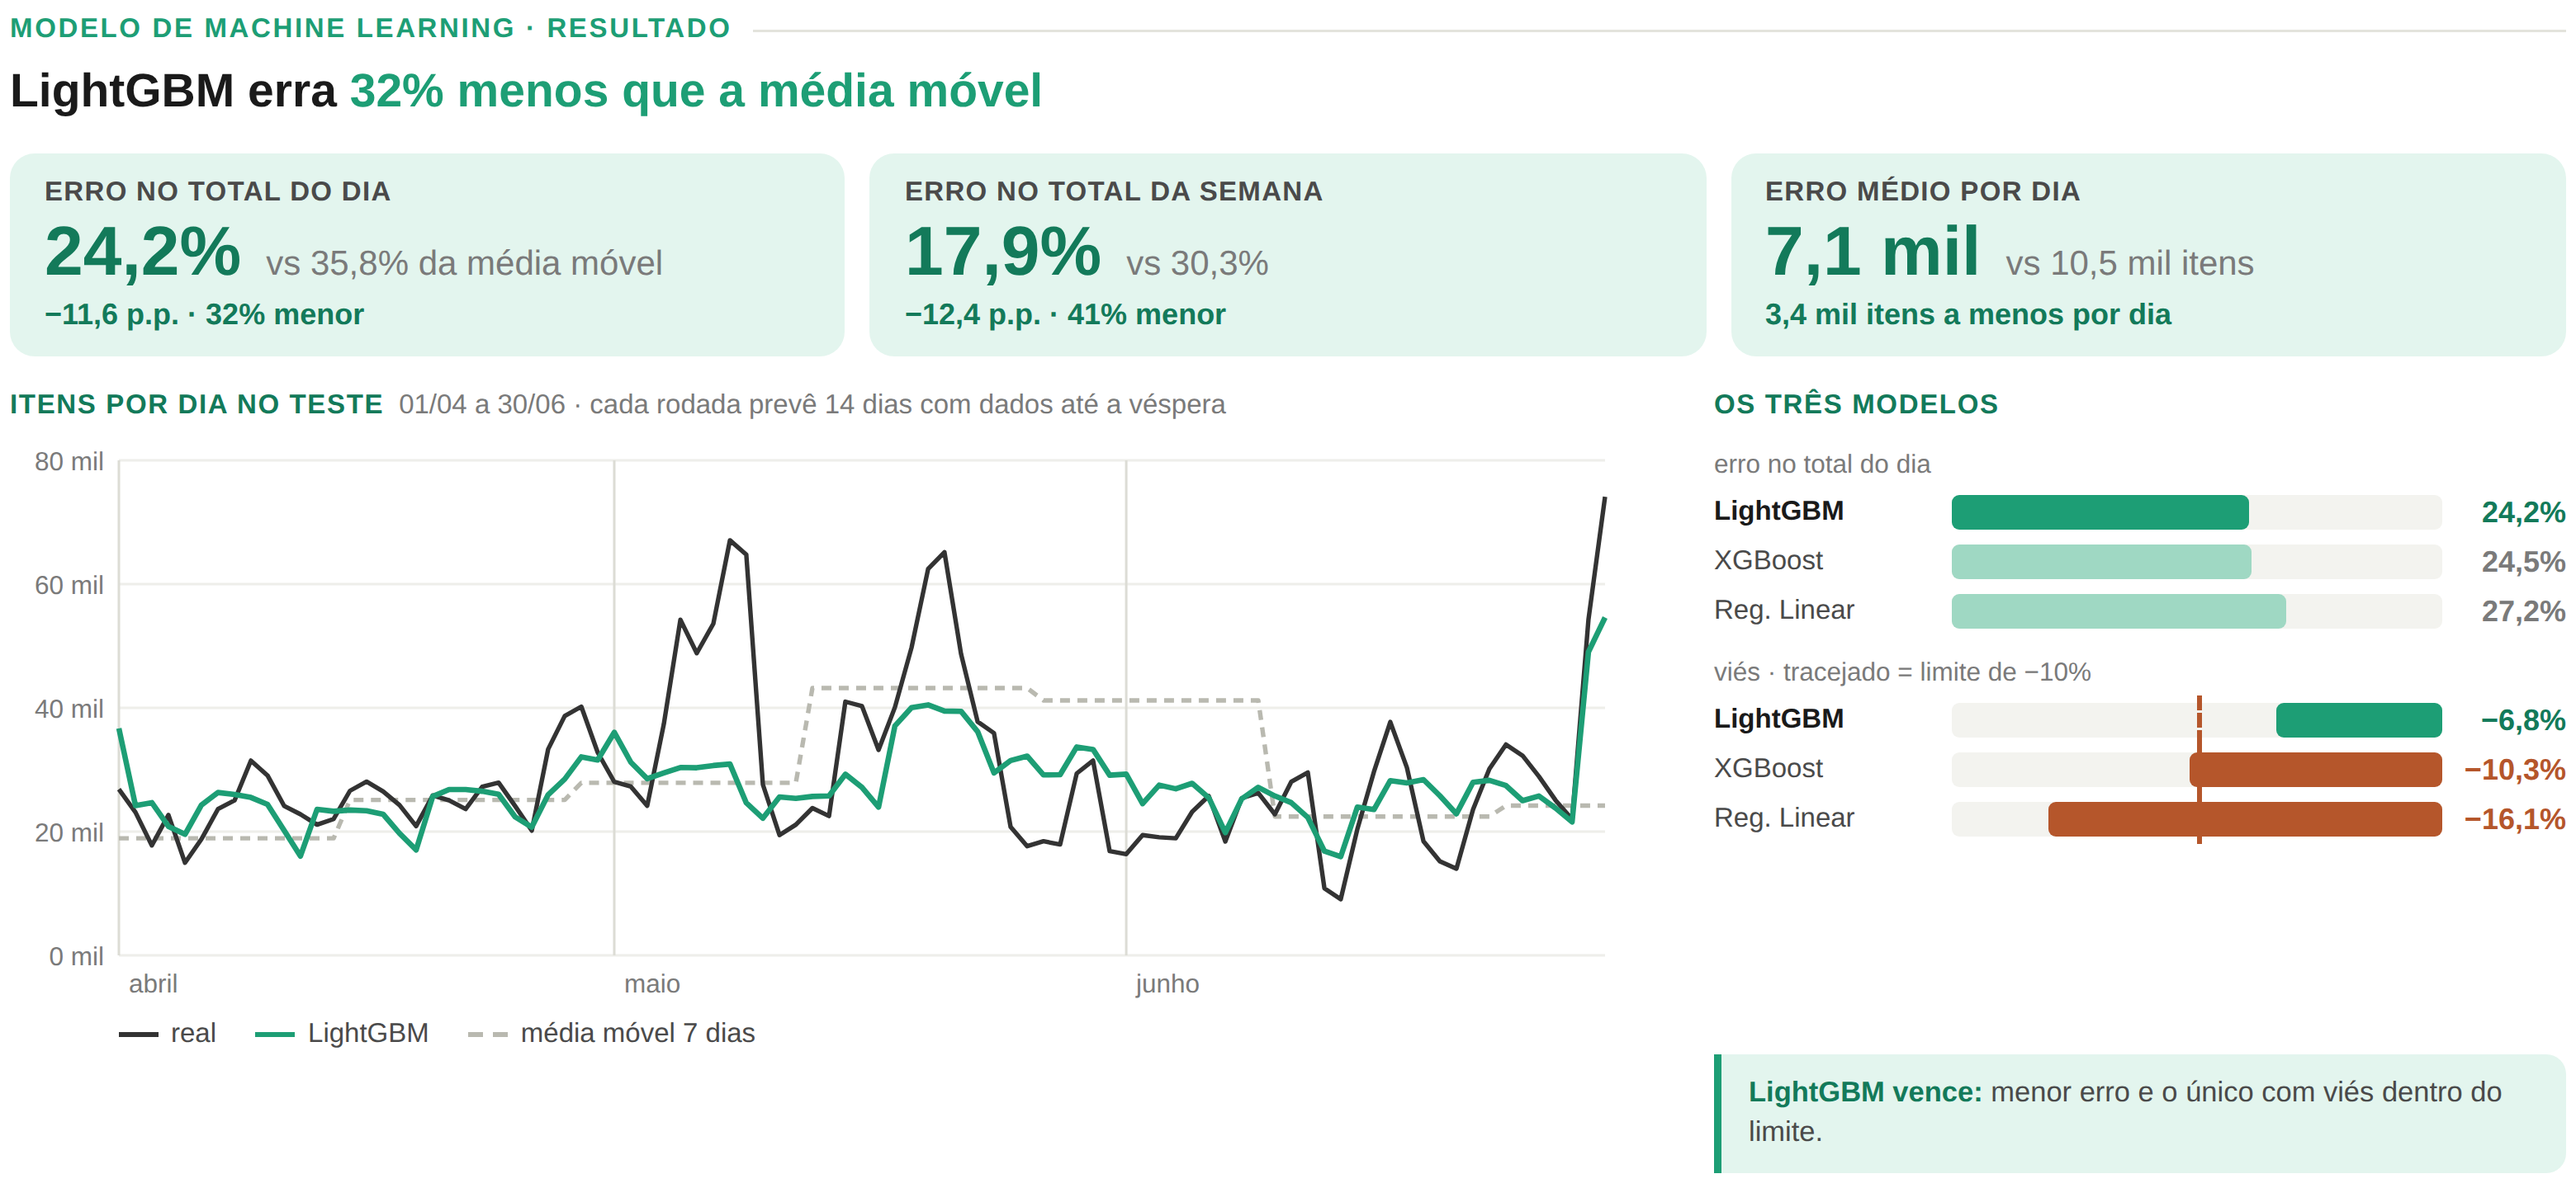
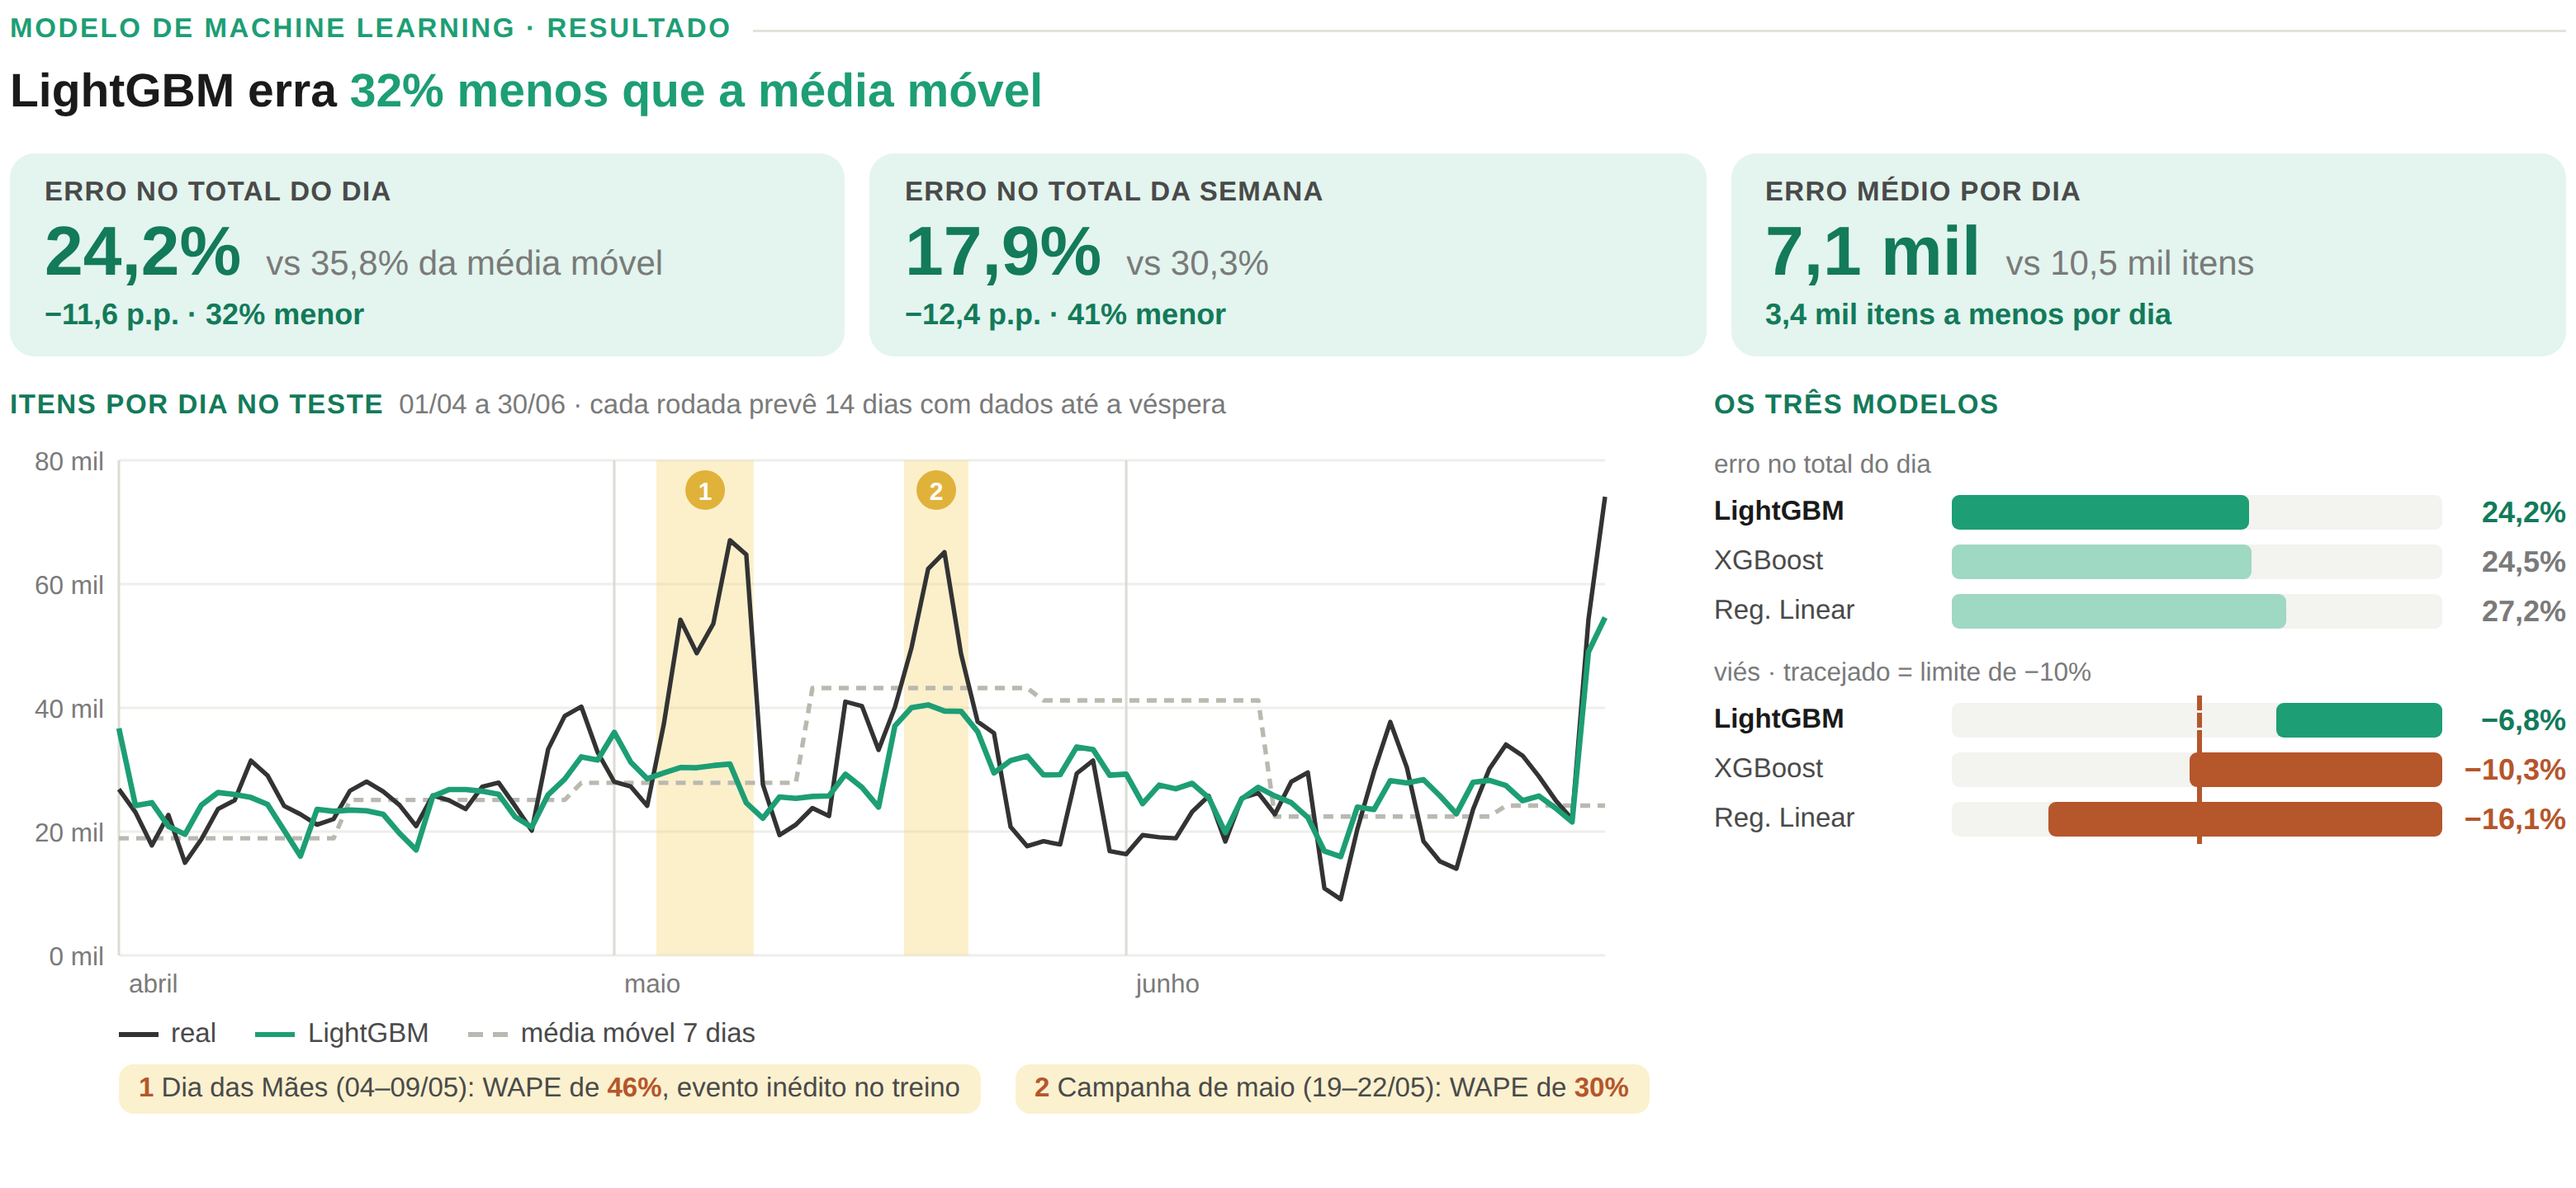
Widget de resultado: faixas nos dois picos com WAPE e sem a mensagem lateral
Claude-Session: https://claude.ai/code/session_01NUJZKTcM8cs9QBTcUeuacF

Changed region(s): [[0.0311, 0.875, 1.0, 1.0], [0.2487, 0.375, 0.3109, 0.8125], [0.342, 0.375, 0.3731, 0.8125]]

diff --git a/apresentacao/widgets/15_resultado_modelos.html b/apresentacao/widgets/15_resultado_modelos.html
@@ -45,6 +45,12 @@
   .v { font-weight: 700; font-size: 12px; text-align: right; }
   .ok { color: var(--verde-escuro); } .ruim { color: var(--laranja); } .neu { color: var(--tinta-3); }
   .gate { position: absolute; top: -3px; bottom: -3px; border-left: 2px dashed var(--laranja); }
+  .pico { fill: #f6d36b; fill-opacity: .35; }
+  .pico-n { fill: #e0b23a; }
+  .pico-t { font-size: 10px; font-weight: 700; fill: #fff; }
+  .picos { display: flex; gap: 14px; margin: 6px 0 0 44px; font-size: 11px; color: var(--tinta-2); }
+  .picos span { background: #fbf1cf; border-radius: 6px; padding: 4px 8px; }
+  .picos b { color: var(--laranja); }
   .msg { margin-top: auto; background: var(--verde-claro); border-left: 3px solid var(--verde); border-radius: 0 8px 8px 0; padding: 8px 11px; font-size: 11.5px; line-height: 1.4; color: var(--tinta-2); }
   .msg b { color: var(--verde-escuro); }
 </style>
@@ -63,8 +69,9 @@
   <div class="baixo">
     <div>
       <div class="tit">Itens por dia no teste<small>01/04 a 30/06 · cada rodada prevê 14 dias com dados até a véspera</small></div>
-      <svg width="652" height="232"><line x1="44" x2="644" y1="210.0" y2="210.0" class="grade"/><text x="38" y="214.0" text-anchor="end" class="eixo">0 mil</text><line x1="44" x2="644" y1="160.0" y2="160.0" class="grade"/><text x="38" y="164.0" text-anchor="end" class="eixo">20 mil</text><line x1="44" x2="644" y1="110.0" y2="110.0" class="grade"/><text x="38" y="114.0" text-anchor="end" class="eixo">40 mil</text><line x1="44" x2="644" y1="60.0" y2="60.0" class="grade"/><text x="38" y="64.0" text-anchor="end" class="eixo">60 mil</text><line x1="44" x2="644" y1="10.0" y2="10.0" class="grade"/><text x="38" y="14.0" text-anchor="end" class="eixo">80 mil</text><line x1="44.0" x2="44.0" y1="10" y2="210" class="mes"/><text x="48.0" y="225" class="eixo">abril</text><line x1="244.0" x2="244.0" y1="10" y2="210" class="mes"/><text x="248.0" y="225" class="eixo">maio</text><line x1="450.7" x2="450.7" y1="10" y2="210" class="mes"/><text x="454.7" y="225" class="eixo">junho</text><polyline points="44.0,162.7 50.7,162.7 57.3,162.7 64.0,162.7 70.7,162.7 77.3,162.7 84.0,162.7 90.7,162.7 97.3,162.7 104.0,162.7 110.7,162.7 117.3,162.7 124.0,162.7 130.7,162.7 137.3,147.2 144.0,147.2 150.7,147.2 157.3,147.2 164.0,147.2 170.7,147.2 177.3,147.2 184.0,147.2 190.7,147.2 197.3,147.2 204.0,147.2 210.7,147.2 217.3,147.2 224.0,147.2 230.7,140.3 237.3,140.3 244.0,140.3 250.7,140.3 257.3,140.3 264.0,140.3 270.7,140.3 277.3,140.3 284.0,140.3 290.7,140.3 297.3,140.3 304.0,140.3 310.7,140.3 317.3,140.3 324.0,102.0 330.7,102.0 337.3,102.0 344.0,102.0 350.7,102.0 357.3,102.0 364.0,102.0 370.7,102.0 377.3,102.0 384.0,102.0 390.7,102.0 397.3,102.0 404.0,102.0 410.7,102.0 417.3,107.0 424.0,107.0 430.7,107.0 437.3,107.0 444.0,107.0 450.7,107.0 457.3,107.0 464.0,107.0 470.7,107.0 477.3,107.0 484.0,107.0 490.7,107.0 497.3,107.0 504.0,107.0 510.7,153.9 517.3,153.9 524.0,153.9 530.7,153.9 537.3,153.9 544.0,153.9 550.7,153.9 557.3,153.9 564.0,153.9 570.7,153.9 577.3,153.9 584.0,153.9 590.7,153.9 597.3,153.9 604.0,149.5 610.7,149.5 617.3,149.5 624.0,149.5 630.7,149.5 637.3,149.5 644.0,149.5" class="l mm7"/><polyline points="44.0,142.9 50.7,152.2 57.3,165.6 64.0,153.3 70.7,172.6 77.3,163.1 84.0,150.9 90.7,147.4 97.3,131.3 104.0,137.3 110.7,149.6 117.3,153.0 124.0,157.2 130.7,154.9 137.3,143.5 144.0,139.8 150.7,143.8 157.3,149.3 164.0,157.8 170.7,145.4 177.3,147.4 184.0,150.9 190.7,141.9 197.3,140.2 204.0,149.7 210.7,159.6 217.3,126.7 224.0,113.3 230.7,109.5 237.3,128.0 244.0,139.9 250.7,141.8 257.3,149.6 264.0,116.6 270.7,74.4 277.3,87.9 284.0,76.0 290.7,42.3 297.3,48.1 304.0,141.0 310.7,161.4 317.3,157.2 324.0,150.5 330.7,153.7 337.3,107.5 344.0,109.3 350.7,127.0 357.3,109.8 364.0,85.7 370.7,53.9 377.3,47.1 384.0,88.2 390.7,115.6 397.3,120.2 404.0,158.1 410.7,165.9 417.3,163.9 424.0,165.2 430.7,136.5 437.3,131.3 444.0,167.9 450.7,169.1 457.3,161.4 464.0,162.3 470.7,162.7 477.3,152.0 484.0,145.6 490.7,164.0 497.3,146.5 504.0,144.4 510.7,153.0 517.3,139.9 524.0,136.1 530.7,182.9 537.3,187.3 544.0,159.0 550.7,135.8 557.3,115.7 564.0,134.1 570.7,163.9 577.3,172.0 584.0,175.0 590.7,151.1 597.3,134.7 604.0,124.8 610.7,129.3 617.3,137.7 624.0,147.3 630.7,155.0 637.3,74.4 644.0,24.7" class="l real"/><polyline points="44.0,118.3 50.7,149.5 57.3,148.3 64.0,157.9 70.7,161.1 77.3,149.3 84.0,144.2 90.7,145.0 97.3,146.2 104.0,149.0 110.7,159.5 117.3,169.9 124.0,151.0 130.7,151.8 137.3,151.3 144.0,151.6 150.7,153.0 157.3,160.7 164.0,167.4 170.7,145.8 177.3,143.0 184.0,143.0 190.7,143.7 197.3,144.9 204.0,154.1 210.7,158.2 217.3,145.1 224.0,138.8 230.7,129.8 237.3,131.1 244.0,119.9 250.7,132.0 257.3,138.6 264.0,136.3 270.7,134.1 277.3,134.2 284.0,133.3 290.7,132.7 297.3,148.4 304.0,154.6 310.7,146.0 317.3,146.6 324.0,145.8 330.7,145.6 337.3,136.8 344.0,142.1 350.7,150.1 357.3,117.3 364.0,109.9 370.7,108.8 377.3,111.3 384.0,111.4 390.7,119.6 397.3,136.3 404.0,131.3 410.7,129.5 417.3,137.1 424.0,137.0 430.7,125.8 437.3,126.8 444.0,137.2 450.7,136.8 457.3,148.7 464.0,141.2 470.7,142.7 477.3,140.5 484.0,146.3 490.7,160.4 497.3,146.8 504.0,142.1 510.7,145.6 517.3,148.3 524.0,154.3 530.7,167.9 537.3,170.1 544.0,150.1 550.7,151.1 557.3,139.4 564.0,140.3 570.7,139.0 577.3,145.5 584.0,152.8 590.7,140.1 597.3,139.3 604.0,141.4 610.7,147.5 617.3,145.6 624.0,150.5 630.7,156.1 637.3,87.4 644.0,73.5" class="l lgb"/></svg>
+      <svg width="652" height="232"><line x1="44" x2="644" y1="210.0" y2="210.0" class="grade"/><text x="38" y="214.0" text-anchor="end" class="eixo">0 mil</text><line x1="44" x2="644" y1="160.0" y2="160.0" class="grade"/><text x="38" y="164.0" text-anchor="end" class="eixo">20 mil</text><line x1="44" x2="644" y1="110.0" y2="110.0" class="grade"/><text x="38" y="114.0" text-anchor="end" class="eixo">40 mil</text><line x1="44" x2="644" y1="60.0" y2="60.0" class="grade"/><text x="38" y="64.0" text-anchor="end" class="eixo">60 mil</text><line x1="44" x2="644" y1="10.0" y2="10.0" class="grade"/><text x="38" y="14.0" text-anchor="end" class="eixo">80 mil</text><line x1="44.0" x2="44.0" y1="10" y2="210" class="mes"/><text x="48.0" y="225" class="eixo">abril</text><line x1="244.0" x2="244.0" y1="10" y2="210" class="mes"/><text x="248.0" y="225" class="eixo">maio</text><line x1="450.7" x2="450.7" y1="10" y2="210" class="mes"/><text x="454.7" y="225" class="eixo">junho</text><rect x="261.0" y="10" width="39.3" height="200" class="pico"/><circle cx="280.7" cy="22" r="8" class="pico-n"/><text x="280.7" y="26" text-anchor="middle" class="pico-t">1</text><rect x="361.0" y="10" width="26.0" height="200" class="pico"/><circle cx="374.0" cy="22" r="8" class="pico-n"/><text x="374.0" y="26" text-anchor="middle" class="pico-t">2</text><polyline points="44.0,162.7 50.7,162.7 57.3,162.7 64.0,162.7 70.7,162.7 77.3,162.7 84.0,162.7 90.7,162.7 97.3,162.7 104.0,162.7 110.7,162.7 117.3,162.7 124.0,162.7 130.7,162.7 137.3,147.2 144.0,147.2 150.7,147.2 157.3,147.2 164.0,147.2 170.7,147.2 177.3,147.2 184.0,147.2 190.7,147.2 197.3,147.2 204.0,147.2 210.7,147.2 217.3,147.2 224.0,147.2 230.7,140.3 237.3,140.3 244.0,140.3 250.7,140.3 257.3,140.3 264.0,140.3 270.7,140.3 277.3,140.3 284.0,140.3 290.7,140.3 297.3,140.3 304.0,140.3 310.7,140.3 317.3,140.3 324.0,102.0 330.7,102.0 337.3,102.0 344.0,102.0 350.7,102.0 357.3,102.0 364.0,102.0 370.7,102.0 377.3,102.0 384.0,102.0 390.7,102.0 397.3,102.0 404.0,102.0 410.7,102.0 417.3,107.0 424.0,107.0 430.7,107.0 437.3,107.0 444.0,107.0 450.7,107.0 457.3,107.0 464.0,107.0 470.7,107.0 477.3,107.0 484.0,107.0 490.7,107.0 497.3,107.0 504.0,107.0 510.7,153.9 517.3,153.9 524.0,153.9 530.7,153.9 537.3,153.9 544.0,153.9 550.7,153.9 557.3,153.9 564.0,153.9 570.7,153.9 577.3,153.9 584.0,153.9 590.7,153.9 597.3,153.9 604.0,149.5 610.7,149.5 617.3,149.5 624.0,149.5 630.7,149.5 637.3,149.5 644.0,149.5" class="l mm7"/><polyline points="44.0,142.9 50.7,152.2 57.3,165.6 64.0,153.3 70.7,172.6 77.3,163.1 84.0,150.9 90.7,147.4 97.3,131.3 104.0,137.3 110.7,149.6 117.3,153.0 124.0,157.2 130.7,154.9 137.3,143.5 144.0,139.8 150.7,143.8 157.3,149.3 164.0,157.8 170.7,145.4 177.3,147.4 184.0,150.9 190.7,141.9 197.3,140.2 204.0,149.7 210.7,159.6 217.3,126.7 224.0,113.3 230.7,109.5 237.3,128.0 244.0,139.9 250.7,141.8 257.3,149.6 264.0,116.6 270.7,74.4 277.3,87.9 284.0,76.0 290.7,42.3 297.3,48.1 304.0,141.0 310.7,161.4 317.3,157.2 324.0,150.5 330.7,153.7 337.3,107.5 344.0,109.3 350.7,127.0 357.3,109.8 364.0,85.7 370.7,53.9 377.3,47.1 384.0,88.2 390.7,115.6 397.3,120.2 404.0,158.1 410.7,165.9 417.3,163.9 424.0,165.2 430.7,136.5 437.3,131.3 444.0,167.9 450.7,169.1 457.3,161.4 464.0,162.3 470.7,162.7 477.3,152.0 484.0,145.6 490.7,164.0 497.3,146.5 504.0,144.4 510.7,153.0 517.3,139.9 524.0,136.1 530.7,182.9 537.3,187.3 544.0,159.0 550.7,135.8 557.3,115.7 564.0,134.1 570.7,163.9 577.3,172.0 584.0,175.0 590.7,151.1 597.3,134.7 604.0,124.8 610.7,129.3 617.3,137.7 624.0,147.3 630.7,155.0 637.3,74.4 644.0,24.7" class="l real"/><polyline points="44.0,118.3 50.7,149.5 57.3,148.3 64.0,157.9 70.7,161.1 77.3,149.3 84.0,144.2 90.7,145.0 97.3,146.2 104.0,149.0 110.7,159.5 117.3,169.9 124.0,151.0 130.7,151.8 137.3,151.3 144.0,151.6 150.7,153.0 157.3,160.7 164.0,167.4 170.7,145.8 177.3,143.0 184.0,143.0 190.7,143.7 197.3,144.9 204.0,154.1 210.7,158.2 217.3,145.1 224.0,138.8 230.7,129.8 237.3,131.1 244.0,119.9 250.7,132.0 257.3,138.6 264.0,136.3 270.7,134.1 277.3,134.2 284.0,133.3 290.7,132.7 297.3,148.4 304.0,154.6 310.7,146.0 317.3,146.6 324.0,145.8 330.7,145.6 337.3,136.8 344.0,142.1 350.7,150.1 357.3,117.3 364.0,109.9 370.7,108.8 377.3,111.3 384.0,111.4 390.7,119.6 397.3,136.3 404.0,131.3 410.7,129.5 417.3,137.1 424.0,137.0 430.7,125.8 437.3,126.8 444.0,137.2 450.7,136.8 457.3,148.7 464.0,141.2 470.7,142.7 477.3,140.5 484.0,146.3 490.7,160.4 497.3,146.8 504.0,142.1 510.7,145.6 517.3,148.3 524.0,154.3 530.7,167.9 537.3,170.1 544.0,150.1 550.7,151.1 557.3,139.4 564.0,140.3 570.7,139.0 577.3,145.5 584.0,152.8 590.7,140.1 597.3,139.3 604.0,141.4 610.7,147.5 617.3,145.6 624.0,150.5 630.7,156.1 637.3,87.4 644.0,73.5" class="l lgb"/></svg>
       <div class="leg"><span><i style="border-color:#333"></i>real</span><span><i style="border-color:#1d9e75"></i>LightGBM</span><span><i style="border-color:#b9b9b0;border-top-style:dashed"></i>média móvel 7 dias</span></div>
+      <div class="picos"><span><b>1</b> Dia das Mães (04–09/05): WAPE de <b>46%</b>, evento inédito no treino</span><span><b>2</b> Campanha de maio (19–22/05): WAPE de <b>30%</b></span></div>
     </div>
     <div class="mini">
       <div class="tit">Os três modelos</div>
@@ -76,7 +83,6 @@
       <div class="linha-b"><b>LightGBM</b><div class="trilho"><i style="right:0;width:34%;background:var(--verde)"></i><span class="gate" style="left:50%"></span></div><span class="v ok">−6,8%</span></div>
       <div class="linha-b"><span>XGBoost</span><div class="trilho"><i style="right:0;width:51.5%;background:var(--laranja)"></i><span class="gate" style="left:50%"></span></div><span class="v ruim">−10,3%</span></div>
       <div class="linha-b"><span>Reg. Linear</span><div class="trilho"><i style="right:0;width:80.5%;background:var(--laranja)"></i><span class="gate" style="left:50%"></span></div><span class="v ruim">−16,1%</span></div>
-      <div class="msg"><b>LightGBM vence:</b> menor erro e o único com viés dentro do limite.</div>
     </div>
   </div>
 </div>

diff --git a/apresentacao/geradores/15_resultado_modelos_modelo.html b/apresentacao/geradores/15_resultado_modelos_modelo.html
@@ -45,6 +45,12 @@
   .v { font-weight: 700; font-size: 12px; text-align: right; }
   .ok { color: var(--verde-escuro); } .ruim { color: var(--laranja); } .neu { color: var(--tinta-3); }
   .gate { position: absolute; top: -3px; bottom: -3px; border-left: 2px dashed var(--laranja); }
+  .pico { fill: #f6d36b; fill-opacity: .35; }
+  .pico-n { fill: #e0b23a; }
+  .pico-t { font-size: 10px; font-weight: 700; fill: #fff; }
+  .picos { display: flex; gap: 14px; margin: 6px 0 0 44px; font-size: 11px; color: var(--tinta-2); }
+  .picos span { background: #fbf1cf; border-radius: 6px; padding: 4px 8px; }
+  .picos b { color: var(--laranja); }
   .msg { margin-top: auto; background: var(--verde-claro); border-left: 3px solid var(--verde); border-radius: 0 8px 8px 0; padding: 8px 11px; font-size: 11.5px; line-height: 1.4; color: var(--tinta-2); }
   .msg b { color: var(--verde-escuro); }
 </style>
@@ -65,6 +71,7 @@
       <div class="tit">Itens por dia no teste<small>01/04 a 30/06 · cada rodada prevê 14 dias com dados até a véspera</small></div>
       {{SVG}}
       <div class="leg"><span><i style="border-color:#333"></i>real</span><span><i style="border-color:#1d9e75"></i>LightGBM</span><span><i style="border-color:#b9b9b0;border-top-style:dashed"></i>média móvel 7 dias</span></div>
+      <div class="picos"><span><b>1</b> Dia das Mães (04–09/05): WAPE de <b>46%</b>, evento inédito no treino</span><span><b>2</b> Campanha de maio (19–22/05): WAPE de <b>30%</b></span></div>
     </div>
     <div class="mini">
       <div class="tit">Os três modelos</div>
@@ -76,7 +83,6 @@
       <div class="linha-b"><b>LightGBM</b><div class="trilho"><i style="right:0;width:34%;background:var(--verde)"></i><span class="gate" style="left:50%"></span></div><span class="v ok">−6,8%</span></div>
       <div class="linha-b"><span>XGBoost</span><div class="trilho"><i style="right:0;width:51.5%;background:var(--laranja)"></i><span class="gate" style="left:50%"></span></div><span class="v ruim">−10,3%</span></div>
       <div class="linha-b"><span>Reg. Linear</span><div class="trilho"><i style="right:0;width:80.5%;background:var(--laranja)"></i><span class="gate" style="left:50%"></span></div><span class="v ruim">−16,1%</span></div>
-      <div class="msg"><b>LightGBM vence:</b> menor erro e o único com viés dentro do limite.</div>
     </div>
   </div>
 </div>

diff --git a/apresentacao/geradores/15_resultado_modelos.py b/apresentacao/geradores/15_resultado_modelos.py
@@ -23,6 +23,13 @@ for i, d in t["data"].items():
     if d.day == 1:
         p.append(f'<line x1="{px(i):.1f}" x2="{px(i):.1f}" y1="{T}" y2="{T + H}" class="mes"/>'
                  f'<text x="{px(i) + 4:.1f}" y="{T + H + 15}" class="eixo">{["", "", "", "", "abril", "maio", "junho"][d.month]}</text>')
+PICOS = [("2026-05-04", "2026-05-09", "1"), ("2026-05-19", "2026-05-22", "2")]
+for ini, fim, n in PICOS:
+    idx = t.index[t["data"].between(ini, fim)]
+    x0, x1 = px(idx[0]) - 3, px(idx[-1]) + 3
+    p.append(f'<rect x="{x0:.1f}" y="{T}" width="{x1 - x0:.1f}" height="{H}" class="pico"/>'
+             f'<circle cx="{(x0 + x1) / 2:.1f}" cy="{T + 12}" r="8" class="pico-n"/>'
+             f'<text x="{(x0 + x1) / 2:.1f}" y="{T + 16}" text-anchor="middle" class="pico-t">{n}</text>')
 for col, classe in (("mm7", "mm7"), ("real", "real"), ("lightgbm", "lgb")):
     pts = " ".join(f"{px(i):.1f},{py(v):.1f}" for i, v in t[col].items())
     p.append(f'<polyline points="{pts}" class="l {classe}"/>')
